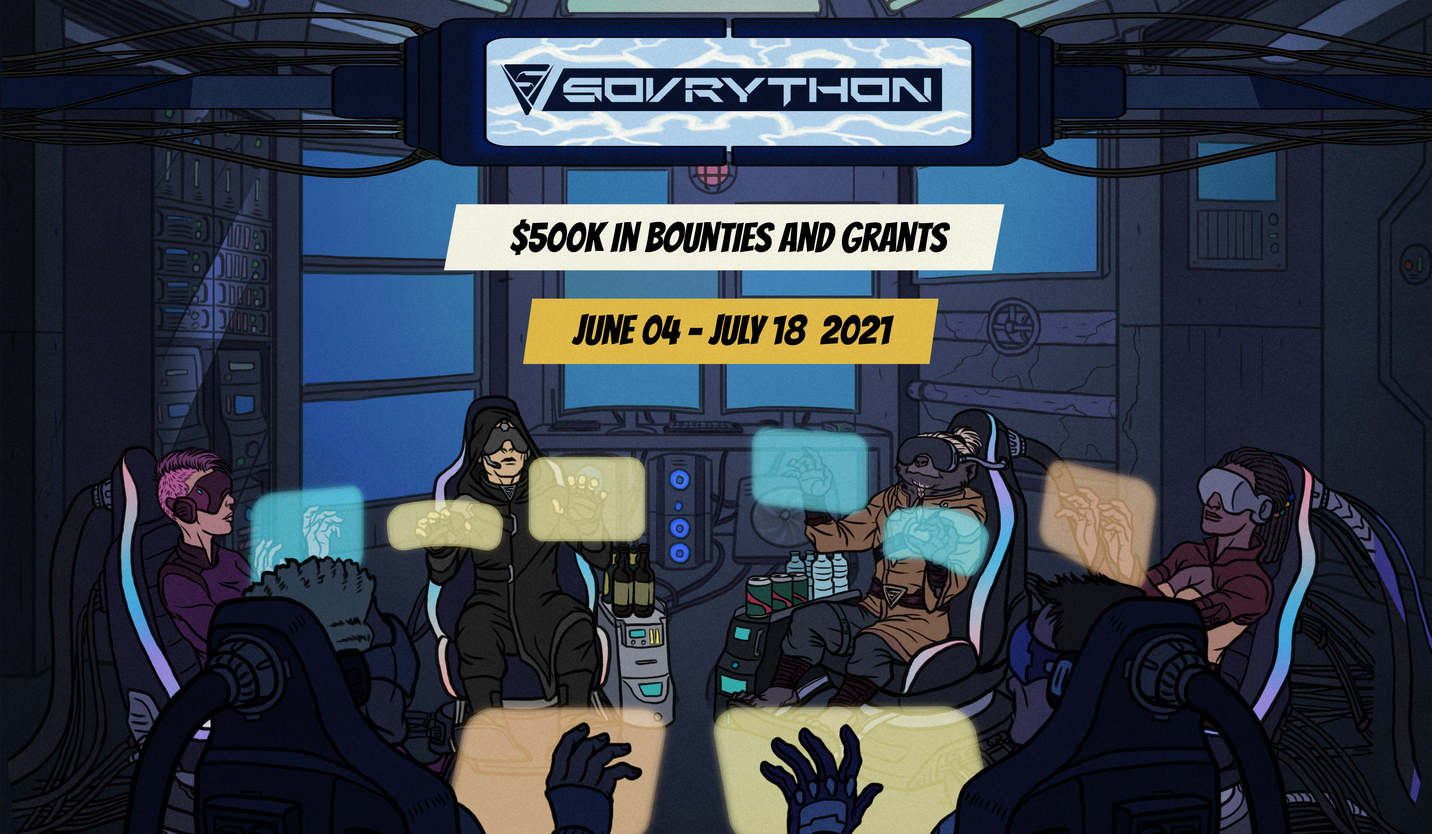
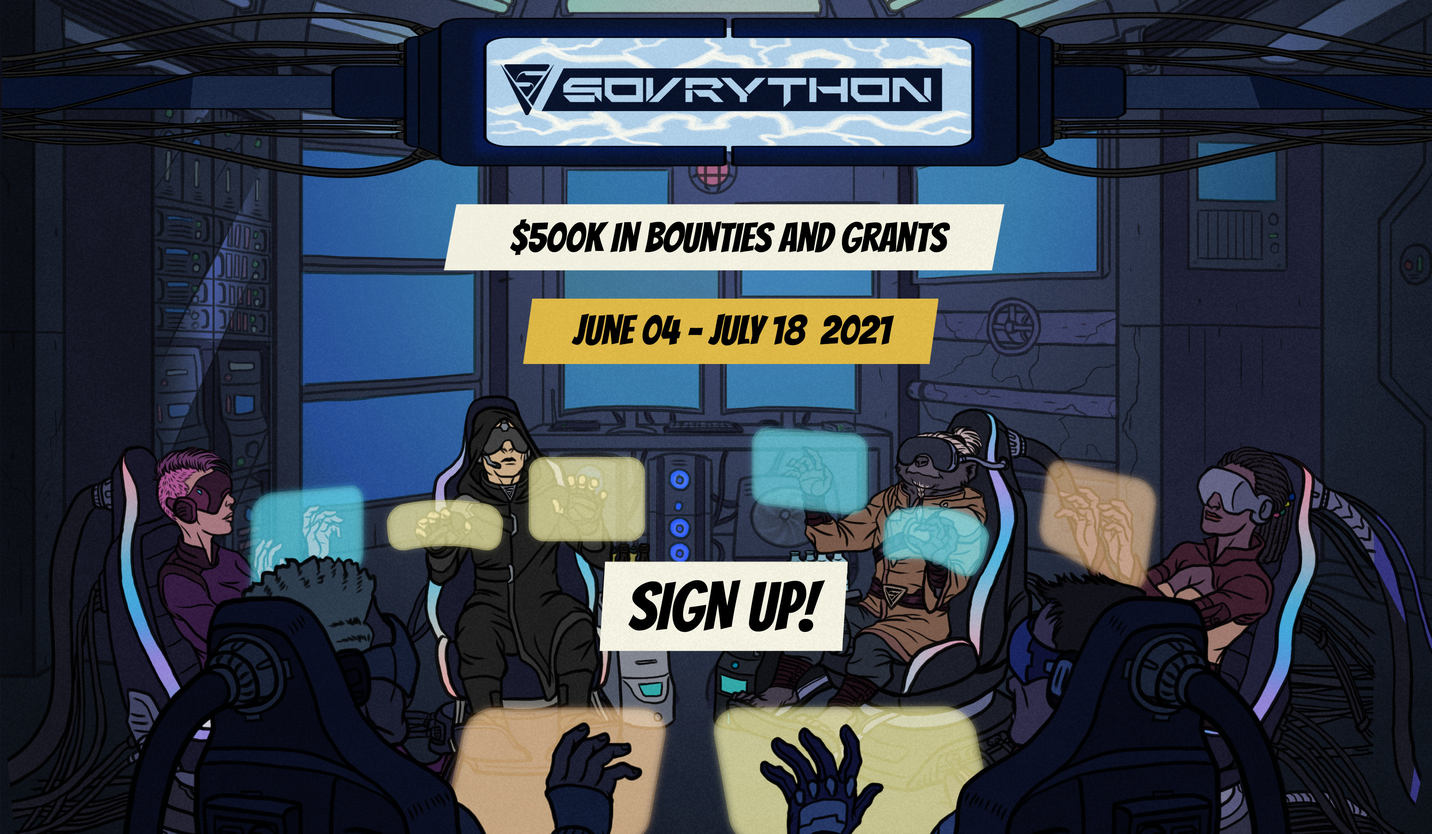
use whole announcement image instead of a button

Changed region(s): [[0.4041, 0.6547, 0.5906, 0.7794]]

diff --git a/src/components/Announcement.js b/src/components/Announcement.js
@@ -53,20 +53,18 @@ const Announce = () => {
             placeContent: 'space-around'
           }}
         >
-          <img src={AnnouncementImage} alt='' width='100%' height='auto' />
-          <ImageButton
-            src={ButtonImage}
-            alt=''
-            width='100%'
-            height='auto'
-            onClick={() => addFloatingSpace('Sign Up')}
-            style={{
-              width: '200px',
-              height: 'auto',
-              margin: '0 auto',
-              cursor: 'pointer'
-            }}
-          />
+          <a
+            href='https://sovryn.typeform.com/to/T8Y5jqe0'
+            target='_blank'
+            rel='noopener noreferrer'
+          >
+            <ImageButton
+              src={AnnouncementImage}
+              alt=''
+              width='100%'
+              height='auto'
+            />
+          </a>
         </div>
       ) : (
         <React.Fragment>
@@ -79,22 +77,12 @@ const Announce = () => {
               placeItems: 'center'
             }}
           >
-            <img src={AnnouncementImage} alt='' width='100%' height='auto' />
             <ImageButton
-              src={ButtonImage}
+              src={AnnouncementImage}
               alt=''
               width='100%'
               height='auto'
               onClick={() => addFloatingSpace('Sign Up')}
-              style={{
-                width: '250px',
-                top: '70vh',
-                position: 'absolute',
-                height: 'auto',
-                margin: '0 auto',
-                left: '40vw',
-                cursor: 'pointer'
-              }}
             />
           </div>
         </React.Fragment>

diff --git a/src/components/FloatingRoomWindow.js b/src/components/FloatingRoomWindow.js
@@ -178,12 +178,12 @@ function FloatingRoomWindow () {
   }
 
   const setFloatingwindowColor = windowKey => {
-    let bgColor = '#000000DD'
+    let bgColor = '#dab544DD'
 
     if (windowKey === 'NFT' || windowKey === 'Workshops') {
       bgColor = '#000000DD'
     } else {
-      bgColor = '#FFFFFFDD'
+      bgColor = '#dab544DD'
     }
     return bgColor
   }
